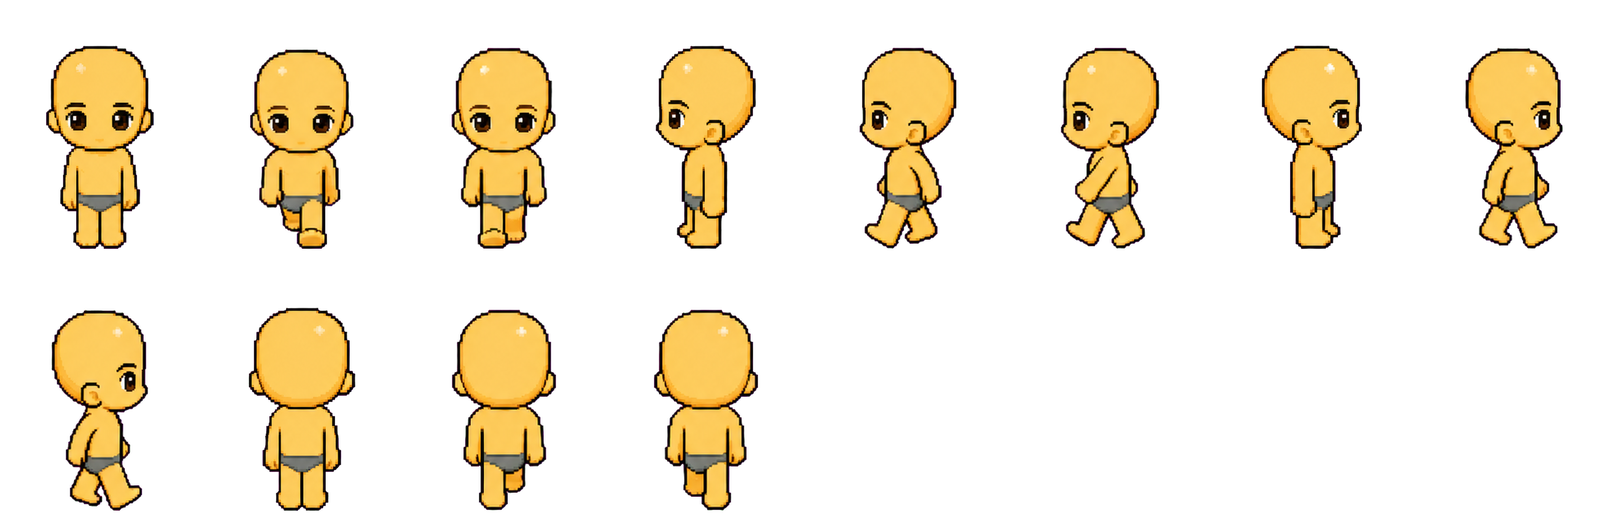
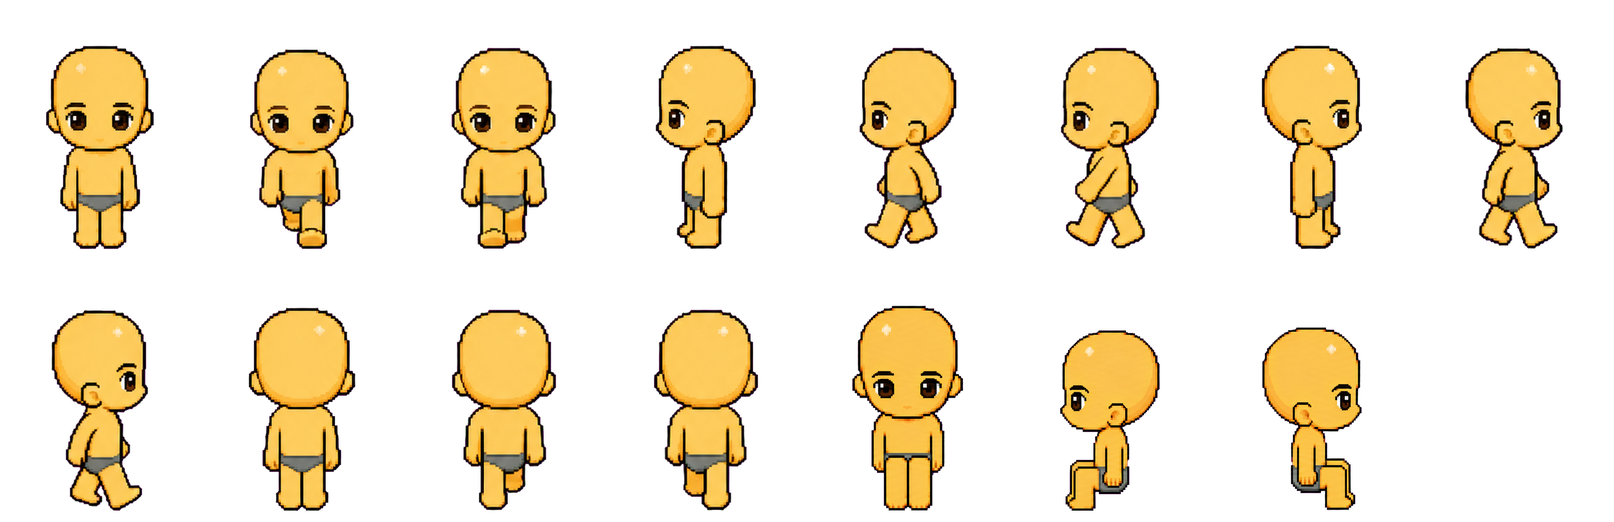
Adiciona poses sentadas por direcao (frente/esq/dir) na camada base
- avatar_visual1.png ganha 3 frames novos de sentado (12/13/14),
  escalados por largura de cabeca comparando com a pose parado de
  cada direcao (sentado nunca fica mais alto que em pe)
- sitAt() agora usa SENTADO_FRAMES[furniture.facing] pra sentar
  virado na direcao que o movel aponta, em vez de sempre usar o
  frame de frente
- sentado de costas ainda nao existe -- cai pro frame de frente
  como placeholder ate essa arte ser gerada

Claude-Session: https://claude.ai/code/session_018xm3GX2bQC8Nuwuw2rsoPK

Changed region(s): [[0.5266, 0.5824, 0.6196, 0.9808], [0.7745, 0.613, 0.8674, 0.9808], [0.6506, 0.613, 0.7435, 0.9808]]

diff --git a/game/MainScene.ts b/game/MainScene.ts
@@ -66,8 +66,16 @@ const WALK_FRAMES: Record<"down" | "left" | "right" | "up", [number, number, num
   up: [9, 10, 11],
 };
 
-const POSE_FRAMES = {
-  sentado: 12,
+type Direction = "down" | "left" | "right" | "up";
+
+// sentado tem uma pose por direção -- ainda falta a de "costas" (essa
+// leva só trouxe frente/esquerda/direita), então sentar virado pra
+// cima cai de volta pra frente por enquanto.
+const SENTADO_FRAMES: Record<Direction, number> = {
+  down: 12,
+  left: 13,
+  right: 14,
+  up: 12,
 };
 
 /**
@@ -112,7 +120,6 @@ function layerTextureKey(layer: LayerKey): string {
   return `avatar-${layer}`;
 }
 
-type Direction = "down" | "left" | "right" | "up";
 type Activity = "idle" | "sentado";
 
 // depois de levantar (por movimento), ignora o auto-sentar por um
@@ -298,7 +305,10 @@ export default class MainScene extends Phaser.Scene {
     this.localActivity = "sentado";
     this.seatedAt = furniture;
     this.localContainer.setPosition(pos.x, pos.y + (furniture.seatOffsetY ?? 0));
-    this.setPoseFrame(this.localContainer, POSE_FRAMES.sentado);
+    // a pose sentada segue a direção que o móvel "olha" (facing), não a
+    // direção que o jogador estava andando antes de sentar
+    this.localContainer.setData("dir", furniture.facing);
+    this.setPoseFrame(this.localContainer, SENTADO_FRAMES[furniture.facing]);
   }
 
   /**
